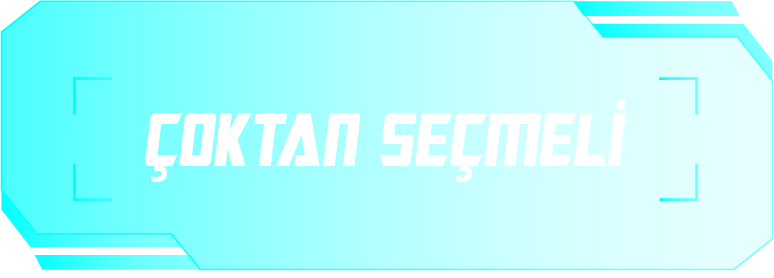
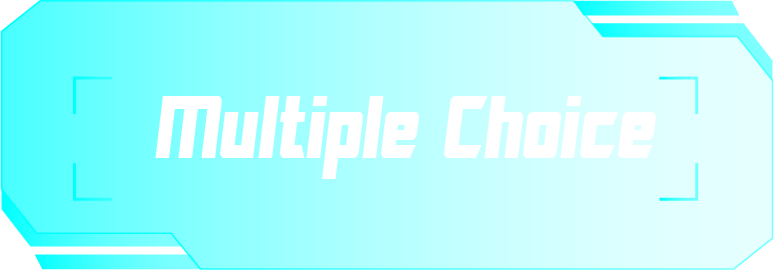
Language of application was half Turkish & half English. That is fixed, it is now full English.

diff --git a/lib/Screens/HomePage.dart b/lib/Screens/HomePage.dart
@@ -12,7 +12,7 @@ class HomePage extends StatelessWidget { //ignore: must_be_immutable
   @override
   Widget build(BuildContext context) {
     return Scaffold(
-      appBar: AppBar(backgroundColor: Colors.blueGrey,title:Text('Bilgisayar Sınavı',style: TextStyle(fontFamily: 'TR'),)),
+      appBar: AppBar(backgroundColor: Colors.blueGrey,title:Text('Computer Test',style: TextStyle(fontFamily: 'TR'),)),
       body: Container(
         decoration: BoxDecoration(
           image: DecorationImage(
@@ -34,7 +34,7 @@ class HomePage extends StatelessWidget { //ignore: must_be_immutable
                   )
               ),
               child: Text(
-                'Bilgisayar Sınavına Hoşgeldiniz', textAlign: TextAlign.center,
+                'Welcome to Computer Test', textAlign: TextAlign.center,
                 style: TextStyle(
                     fontSize: 25,
                     fontWeight: FontWeight.bold, fontFamily: 'TR', color: Colors.black54

diff --git a/lib/Screens/ResultPage.dart b/lib/Screens/ResultPage.dart
@@ -22,7 +22,7 @@ class _ResultPageState extends State<ResultPage> {
     passedOrFailed();
     return Scaffold(
       appBar: AppBar(backgroundColor: Colors.blueGrey,
-        title: Text(' Sonuç ',style: TextStyle(fontFamily: 'TR',fontSize:25),),
+        title: Text(' Result ',style: TextStyle(fontFamily: 'TR',fontSize:25),),
       ),
       body: Container(alignment: Alignment.center,
         decoration: BoxDecoration(
@@ -42,7 +42,7 @@ class _ResultPageState extends State<ResultPage> {
               height: 20,
             ),
             Text(
-              'Tebrikler Puanınız',
+              'Your Score',
               style: TextStyle(fontSize: 30,fontFamily: 'TR',color: Colors.black87),
             ),
             SizedBox(
